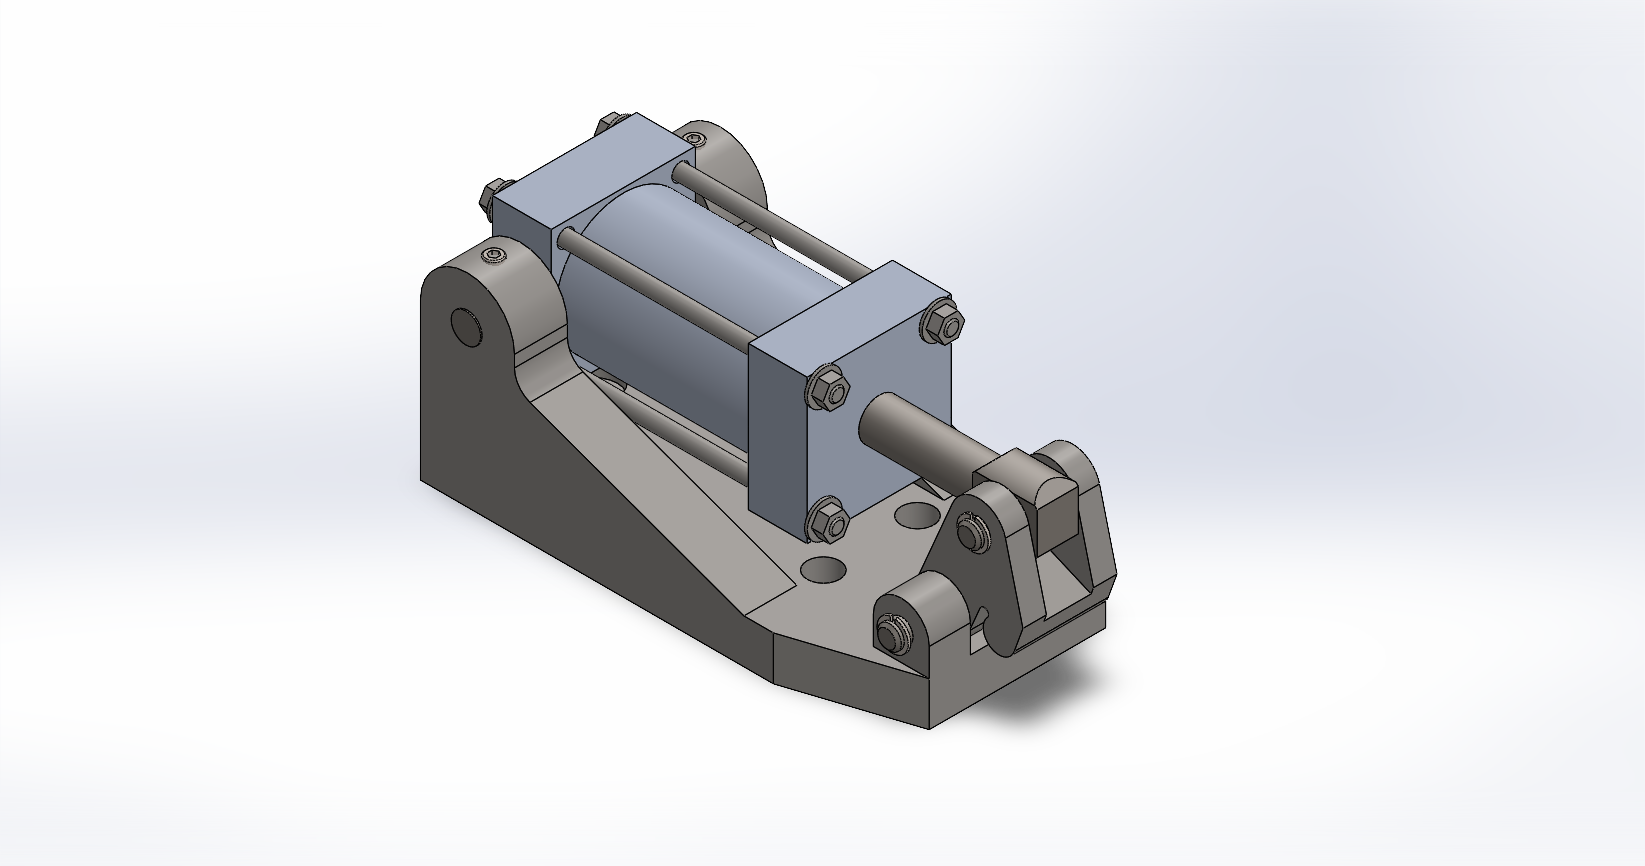
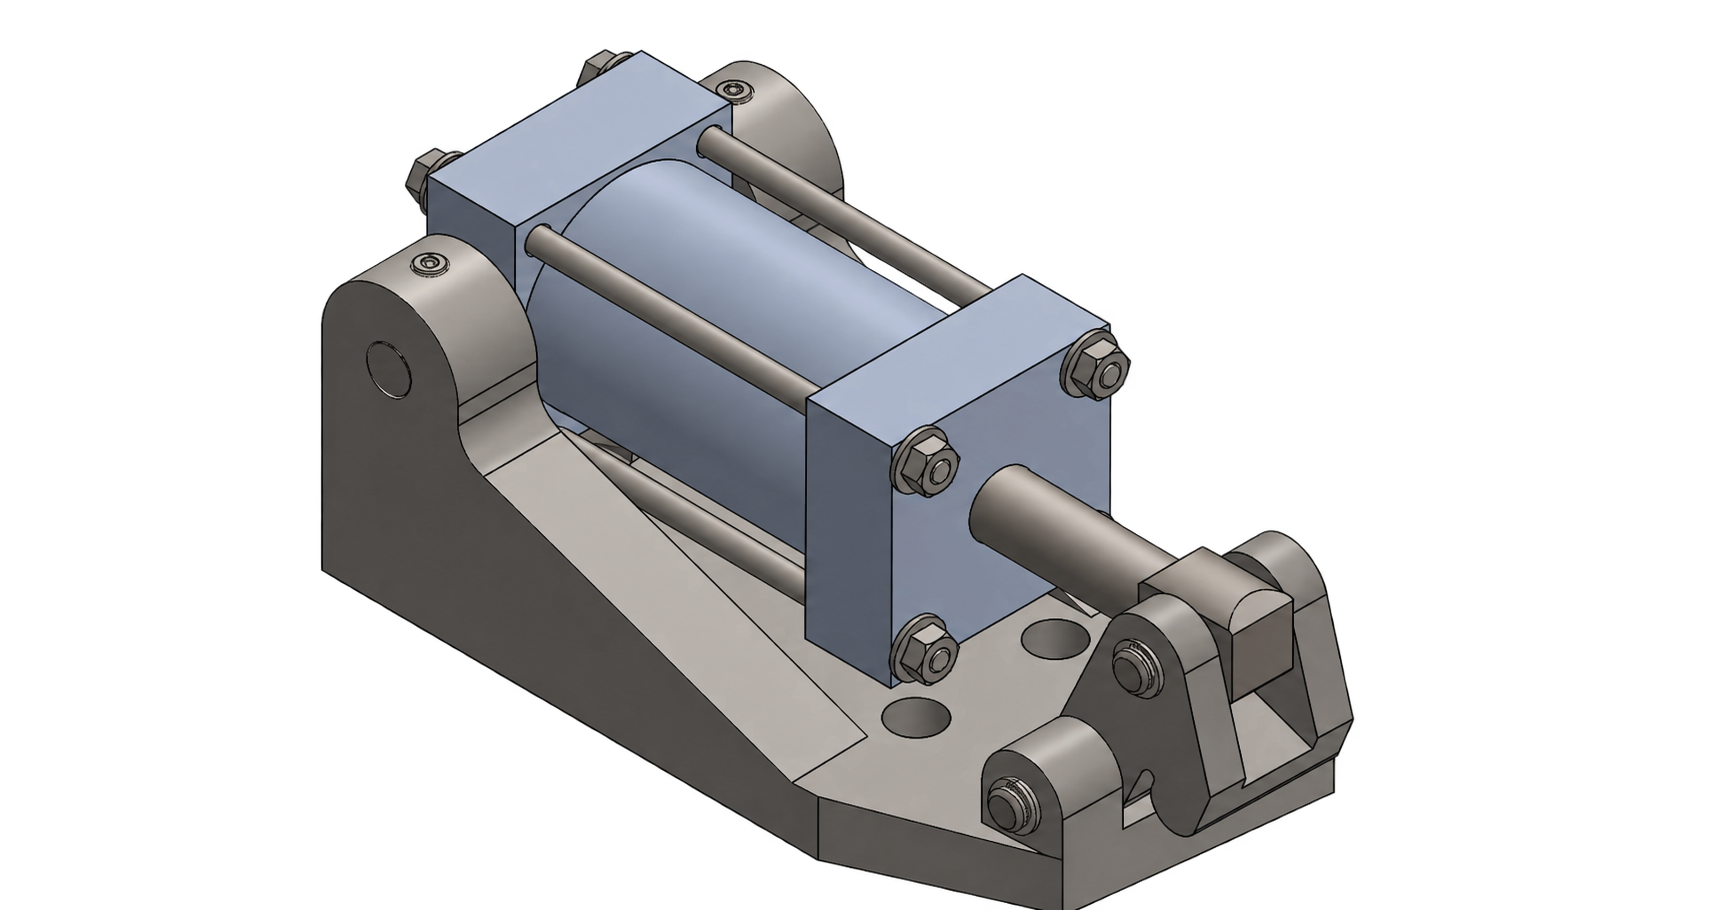
Remove backgrounds from mechanical gallery images

diff --git a/projects.html b/projects.html
@@ -89,16 +89,16 @@
                   <img src="assets/projects/sample-pos-angle.png" alt="POS machine angled render" loading="lazy" />
                 </article>
                 <article class="archive-gallery-card">
-                  <img src="assets/projects/cylinder-clamp-assembly.png" alt="Cylinder clamp assembly isometric CAD view" loading="lazy" />
+                  <img src="assets/projects/cylinder-clamp-assembly.png?v=2" alt="Cylinder clamp assembly isometric CAD view" loading="lazy" />
                 </article>
                 <article class="archive-gallery-card">
-                  <img src="assets/projects/fd-22553-sheet-metal-chassis.png" alt="FD-22553 sheet metal chassis isometric CAD view" loading="lazy" />
+                  <img src="assets/projects/fd-22553-sheet-metal-chassis.png?v=2" alt="FD-22553 sheet metal chassis isometric CAD view" loading="lazy" />
                 </article>
                 <article class="archive-gallery-card">
-                  <img src="assets/projects/sheet-metal-enclosure.png" alt="Sheet metal enclosure isometric CAD view" loading="lazy" />
+                  <img src="assets/projects/sheet-metal-enclosure.png?v=2" alt="Sheet metal enclosure isometric CAD view" loading="lazy" />
                 </article>
                 <article class="archive-gallery-card">
-                  <img src="assets/projects/sheet-metal-tray.png" alt="Ventilated sheet metal tray isometric CAD view" loading="lazy" />
+                  <img src="assets/projects/sheet-metal-tray.png?v=2" alt="Ventilated sheet metal tray isometric CAD view" loading="lazy" />
                 </article>
               </div>
             </div>
